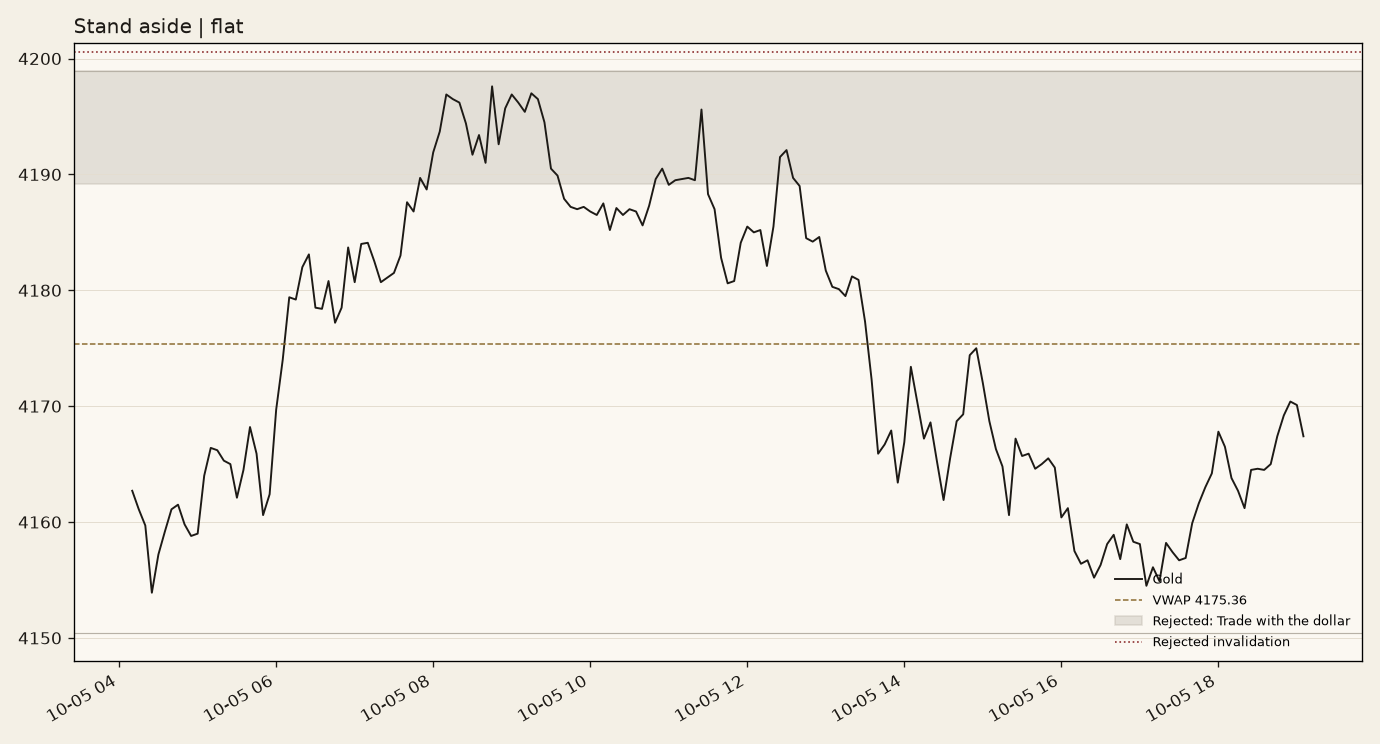
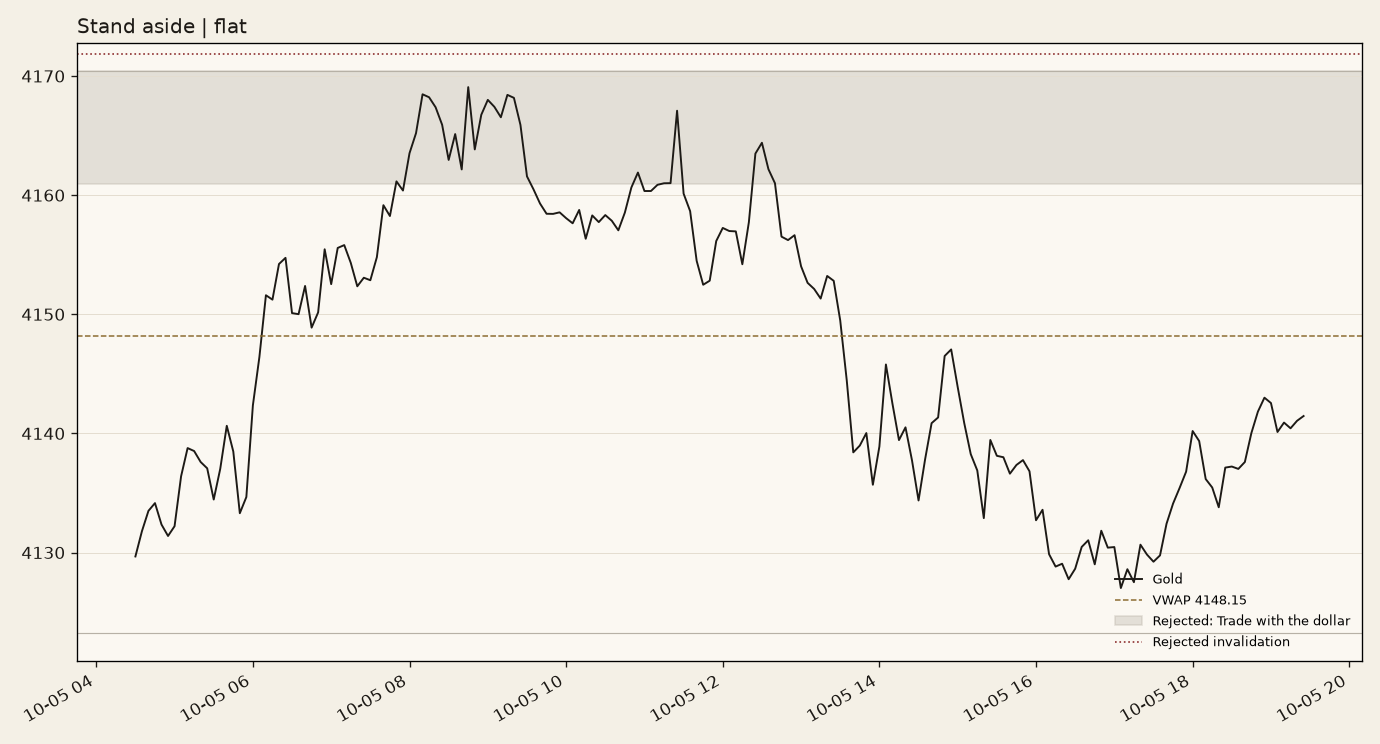
Read the Vantage XAUUSD TradingView chart for each gold plan.

diff --git a/docs/index.html b/docs/index.html
@@ -19,25 +19,44 @@
 <main>
   <h1>Gold intraday bot</h1>
   <p class="muted">Alerts only. No orders are sent. A phone alert fires when a trade plan opens. This page reloads every 5 minutes.</p>
-  <img src="chart.png?v=1791227957" alt="Gold chart with the current plan levels">
+  
+<div class="tradingview-widget-container">
+  <div id="tv_gold" style="height:460px"></div>
+  <div class="tradingview-widget-copyright"><a href="https://www.tradingview.com/chart/?symbol=VANTAGE%3AXAUUSD" rel="noopener nofollow" target="_blank">VANTAGE:XAUUSD chart</a> by TradingView</div>
+  <script type="text/javascript" src="https://s3.tradingview.com/tv.js"></script>
+  <script type="text/javascript">
+  new TradingView.widget({
+    "autosize": true,
+    "symbol": "VANTAGE:XAUUSD",
+    "interval": "5",
+    "timezone": "Etc/UTC",
+    "theme": "light",
+    "style": "1",
+    "locale": "en",
+    "allow_symbol_change": false,
+    "hide_side_toolbar": false,
+    "container_id": "tv_gold"
+  });
+  </script>
+</div>
+
+  <h2>Plan levels</h2>
+  <img src="chart.png?v=1791228493" alt="Gold chart with the current plan levels">
   <h2>Current alert</h2>
-  <pre>No trade. Gold 4167.40. Stand aside.</pre>
+  <pre>No trade. Gold 4141.46. Stand aside.</pre>
   <h2>Latest brief</h2>
   <pre>GOLD INTRADAY BRIEF
-2026-10-05 19:19 UTC
-Gold: GC=F    Dollar index: DX-Y.NYB    WTI: CL=F
+2026-10-05 19:27 UTC
+Gold: VANTAGE:XAUUSD    Dollar index: DX-Y.NYB    WTI: CL=F
 This plan is rebuilt on every run. The journal changes which approach is trusted. It does not freeze a strategy.
-Prices are COMEX gold futures, not spot XAUUSD. Use the structure and the dollar relationship. Do not copy a futures price onto a spot ticket.
+Gold prices are the VANTAGE:XAUUSD chart on TradingView (https://www.tradingview.com/chart/?symbol=VANTAGE%3AXAUUSD). That is the Vantage XAUUSD gold CFD, so these levels match that chart rather than COMEX futures.
 
-RUNNING PLAN
-Standing aside since 18:11 UTC (plan 03b588d4). It keeps running because the new read is also no trade.
-
-NEW READ (not opened)
-Stand aside  |  FLAT  |  confidence 0.56  |  id f0a55cc5
+PLAN
+Stand aside  |  FLAT  |  confidence 0.54  |  id c5413331
 Standing aside. The headline shock is larger than the lead of the best trade.
-Fresh headline shock is in the tape. Trade with the dollar leads standing aside by only 0.04, which is not enough to take a trade while that headline is live. No position. Run a new brief when the price has absorbed the headline, or when the dollar move fades.
+Fresh headline shock is in the tape. Trade with the dollar leads standing aside by only 0.05, which is not enough to take a trade while that headline is live. No position. Run a new brief when the price has absorbed the headline, or when the dollar move fades.
 No position. Nothing is risked on this plan.
-The rejected zone was 4189.20 to 4198.90 (Trade with the dollar), invalidation 4200.60, target 4175.36. It is not an order.
+The rejected zone was 4160.96 to 4170.40 (Trade with the dollar), invalidation 4171.87, target 4148.15. It is not an order.
 
 WHAT WOULD CHANGE IT
 - This plan is graded after 120 minutes, or sooner if price hits the invalidation or the target.
@@ -47,37 +66,38 @@ WHAT WOULD CHANGE IT
 - A headline that flips the dollar or oil story means you run a new brief before entering.
 
 CHART
-Gold 4167.40 in New York (17:00-21:00 UTC). 5-minute structure is sideways. 1-hour structure is sideways.
-UTC-day range 4150.40 to 4198.90. Price is 35% of the way up that range, below VWAP 4175.36. ATR 3.09. Short-range volatility over longer-range volatility is 0.95.
+Gold 4141.46 in New York (17:00-21:00 UTC). 5-minute structure is up. 1-hour structure is sideways.
+UTC-day range 4123.22 to 4170.40. Price is 39% of the way up that range, below VWAP 4148.15. ATR 2.67. Short-range volatility over longer-range volatility is 0.80.
 
 DOLLAR
-DXY 102.18 (+0.27% this UTC day, up). Correlation of recent 5-minute returns with gold is -0.60. Gold is responding the usual way to a firmer dollar.
+DXY 102.17 (+0.26% this UTC day, up). Correlation of recent 5-minute returns with gold is -0.60. Gold is responding the usual way to a firmer dollar.
 
 OIL
-WTI 89.08 (-1.93% this UTC day, down). Correlation of recent 5-minute returns with gold is -0.23. Falling oil is not automatically a gold short. It matters when gold is actually following it.
+WTI 89.03 (-1.98% this UTC day, down). Correlation of recent 5-minute returns with gold is -0.21. Falling oil is not automatically a gold short. It matters when gold is actually following it.
 
 HEADLINES
-Dollar-headline score +1.00 (wording supports a stronger dollar, usually a headwind for gold). Oil-headline score -0.20 (no clear oil impulse in the wording). Fresh shock wording: yes.
+Dollar-headline score +1.00 (wording supports a stronger dollar, usually a headwind for gold). Oil-headline score +0.12 (no clear oil impulse in the wording). Fresh shock wording: yes.
 Dollar headlines:
 - Nasdaq hits record as dollar and Treasury yields climb, oil prices ease - The Spokesman-Review
-- U.S. Treasury Yields Jump Most in 32 Years - 조선일보
+- U.S. Treasury Yields Jump Most in 32 Years - chosun.com
 - Nasdaq Poised to Hit New High as Treasury Yields Climb - WSJ
 Oil headlines:
 - Iraq seeks to buy crude oil tankers to handle shipments beyond Strait of Hormuz: INA - S&amp;P Global
-- Treasury Yields Dip As Oil Slips And Central Banks Stay Patient - Finimize
-- US oil inventories rise but fuel tightness and OPEC+ discipline keep prices supported. - Pluang
+- UKMTO reports fresh attacks in Red Sea, Strait of Hormuz - Quantum Commodity Intelligence
+- Treasury Yields Dip As Oil Slips And Central Banks Stay Patient - finimize.com
 
 WHY THIS APPROACH
 Adjusted score = how the setup looks now, times the journal. A trade needs at least 0.50. Journal half-life is 5 days, so a lesson from a month ago barely counts.
-  Trade with the dollar            0.60 x 1.00 = 0.60  short
-&gt; Stand aside                      0.56 x 1.00 = 0.56  flat
+  Trade with the dollar            0.58 x 1.00 = 0.58  short
+&gt; Stand aside                      0.76 x 0.71 = 0.54  flat
   Trade the oil shock              0.12 x 1.00 = 0.12  flat
-  Trade with the intraday trend    0.10 x 1.00 = 0.10  flat
+  Trade with the intraday trend    0.10 x 1.00 = 0.10  long
   Fade the session range           0.10 x 1.00 = 0.10  flat
+0 wins, 1 losses, 0 scratches on similar days (effective weight 0.8). Trust multiplier 0.71.
 No similar graded sessions yet. This choice is provisional.
 
 GRADED THIS RUN
-Nothing finished its stop, target, or time window on this run.
+03b588d4 stand aside -&gt; loss (-1.00R)
 
 The next run reads the chart, the dollar, and oil again from scratch. Only the graded results carry forward, and they decay.
 
@@ -87,7 +107,7 @@ US CALENDAR
 Refreshed 2026-10-05 18:44 UTC. Refreshes hourly.
 No high or medium impact USD releases in the next 24 hours.</pre>
   <h2>Recent runs</h2>
-  <pre>2026-10-05 19:19 UTC  gold 4167.40 | holding flat stand_aside 03b588d4 | new read flat stand_aside not opened
+  <pre>2026-10-05 19:27 UTC  gold 4141.46 | graded: 03b588d4 stand aside -&gt; loss (-1.00R) | opened stand aside c5413331
 2026-10-05 19:04 UTC  auto: gold 4168.90 | holding flat stand_aside 03b588d4 | new read flat stand_aside not opened | broker: Bot exposure: none
 2026-10-05 18:57 UTC  auto: gold 4167.00 | holding flat stand_aside 03b588d4 | new read flat stand_aside not opened | broker: Bot exposure: none
 2026-10-05 18:53 UTC  manual: gold 4165.10 | holding flat stand_aside 03b588d4 | new read flat stand_aside not opened | broker: Bot exposure: none

diff --git a/tbot/tradingview_feed.py b/tbot/tradingview_feed.py
@@ -1,0 +1,108 @@
+"""5-minute bars from a TradingView chart symbol, such as VANTAGE:XAUUSD.
+
+The public chart session is enough for recent intraday bars. No TradingView login is used.
+"""
+
+from __future__ import annotations
+
+import json
+import random
+import string
+from datetime import datetime, timezone
+
+import pandas as pd
+
+from tbot.market import MarketDataError
+
+SOCKET = "wss://data.tradingview.com/socket.io/websocket"
+ORIGIN = "https://data.tradingview.com"
+
+
+def fetch_chart(symbol: str, resolution: str = "5", bars: int = 1200) -> pd.DataFrame:
+    """Return ts, open, high, low, close, volume for a TradingView symbol."""
+    try:
+        from websocket import create_connection
+    except ImportError as exc:
+        raise MarketDataError("websocket-client is not installed. Run: pip install -r requirements.txt") from exc
+
+    ws = create_connection(SOCKET, header={"Origin": ORIGIN}, timeout=20)
+    try:
+        session = "cs_" + "".join(random.choice(string.ascii_lowercase) for _ in range(12))
+        _send(ws, "set_auth_token", ["unauthorized_user_token"])
+        _send(ws, "chart_create_session", [session, ""])
+        payload = "=" + json.dumps({"symbol": symbol, "adjustment": "splits"}, separators=(",", ":"))
+        _send(ws, "resolve_symbol", [session, "symbol_1", payload])
+        _send(ws, "create_series", [session, "s1", "s1", "symbol_1", resolution, bars])
+        for _ in range(50):
+            raw = ws.recv()
+            if _heartbeat(raw):
+                ws.send(raw)
+                continue
+            for message in _messages(raw):
+                method = message.get("m")
+                if method in ("symbol_error", "series_error"):
+                    raise MarketDataError(f"TradingView chart {symbol} did not load ({method})")
+                if method not in ("timescale_update", "du"):
+                    continue
+                series = message["p"][1].get("s1", {}).get("s") or []
+                if len(series) >= 30:
+                    return _frame(series)
+    finally:
+        ws.close()
+    raise MarketDataError(f"TradingView chart {symbol} returned no bars")
+
+
+def _send(ws, method: str, params: list) -> None:
+    body = json.dumps({"m": method, "p": params}, separators=(",", ":"))
+    ws.send(f"~m~{len(body)}~m~{body}")
+
+
+def _heartbeat(raw: str) -> bool:
+    return "~h~" in raw and '"m":' not in raw
+
+
+def _messages(raw: str) -> list[dict]:
+    found: list[dict] = []
+    index = 0
+    while True:
+        marker = raw.find("~m~", index)
+        if marker < 0:
+            break
+        length_end = raw.find("~m~", marker + 3)
+        if length_end < 0:
+            break
+        try:
+            length = int(raw[marker + 3 : length_end])
+        except ValueError:
+            break
+        start = length_end + 3
+        packet = raw[start : start + length]
+        index = start + length
+        if packet.startswith("{"):
+            try:
+                found.append(json.loads(packet))
+            except json.JSONDecodeError:
+                continue
+    return found
+
+
+def _frame(series: list[dict]) -> pd.DataFrame:
+    rows = []
+    for item in series:
+        values = item.get("v") or []
+        if len(values) < 5:
+            continue
+        rows.append(
+            {
+                "ts": datetime.fromtimestamp(values[0], tz=timezone.utc),
+                "open": values[1],
+                "high": values[2],
+                "low": values[3],
+                "close": values[4],
+                "volume": values[5] if len(values) > 5 else 0,
+            }
+        )
+    frame = pd.DataFrame(rows)
+    if len(frame) < 30:
+        raise MarketDataError("TradingView chart returned too few bars")
+    return frame

diff --git a/tbot/market.py b/tbot/market.py
@@ -20,12 +20,7 @@ class MarketDataError(RuntimeError):
 
 def load_market(settings: Settings) -> tuple[str, pd.DataFrame, str | None, pd.DataFrame | None, str | None, pd.DataFrame | None, list[str]]:
     warnings: list[str] = []
-    gold_symbol, gold = _first_available(settings.gold_symbol, GOLD_FALLBACKS, settings)
-    if gold_symbol is None or gold is None:
-        raise MarketDataError(
-            "Gold prices did not load. Check the connection, then try again. "
-            "python main.py demo still runs without a feed."
-        )
+    gold_symbol, gold = _load_gold(settings, warnings)
     dxy_symbol, dxy = _first_available(settings.dxy_symbol, DXY_FALLBACKS, settings)
     if dxy is None:
         warnings.append("Dollar index price did not load. The brief will use dollar headlines only.")
@@ -68,12 +63,36 @@ def fetch_bars(symbol: str, interval: str, period: str) -> pd.DataFrame:
 
 
 def price_note_for(symbol: str) -> str:
+    if ":" in symbol:
+        link = "https://www.tradingview.com/chart/?symbol=" + symbol.replace(":", "%3A")
+        return (
+            f"Gold prices are the {symbol} chart on TradingView ({link}). "
+            "That is the Vantage XAUUSD gold CFD, so these levels match that chart rather than COMEX futures."
+        )
     if symbol.upper() in {"GC=F", "MGC=F"}:
         return (
             "Prices are COMEX gold futures, not spot XAUUSD. "
             "Use the structure and the dollar relationship. Do not copy a futures price onto a spot ticket."
         )
     return ""
+
+
+def _load_gold(settings: Settings, warnings: list[str]) -> tuple[str, pd.DataFrame]:
+    symbol = settings.gold_symbol
+    if ":" in symbol:
+        try:
+            from tbot.tradingview_feed import fetch_chart
+
+            return symbol, fetch_chart(symbol, "5", 1200)
+        except MarketDataError as exc:
+            warnings.append(f"TradingView chart {symbol} did not load ({exc}). Using the fallback gold price.")
+    gold_symbol, gold = _first_available(symbol if ":" not in symbol else "XAUUSD=X", GOLD_FALLBACKS, settings)
+    if gold_symbol is None or gold is None:
+        raise MarketDataError(
+            "Gold prices did not load. Check the connection, then try again. "
+            "python main.py demo still runs without a feed."
+        )
+    return gold_symbol, gold
 
 
 def _first_available(

diff --git a/tbot/site.py b/tbot/site.py
@@ -17,6 +17,7 @@ def build_site(
     *,
     lead: str = "Updated every 15 minutes while the gold market is open. This page reloads every 5 minutes.",
     section_title: str = "Status",
+    tv_symbol: str | None = None,
 ) -> Path:
     site_dir.mkdir(parents=True, exist_ok=True)
     image = ""
@@ -24,6 +25,7 @@ def build_site(
         shutil.copyfile(chart, site_dir / "chart.png")
         stamp = int(datetime.now(timezone.utc).timestamp())
         image = f'<img src="chart.png?v={stamp}" alt="Gold chart with the current plan levels">'
+    widget = _tradingview_widget(tv_symbol) if tv_symbol else ""
     account = "\n".join(account_lines)
     recent = "\n".join(reversed(log_tail))
     page = f"""<!DOCTYPE html>
@@ -47,6 +49,8 @@ def build_site(
 <main>
   <h1>Gold intraday bot</h1>
   <p class="muted">{html.escape(lead)}</p>
+  {widget}
+  <h2>Plan levels</h2>
   {image}
   <h2>{html.escape(section_title)}</h2>
   <pre>{html.escape(account)}</pre>
@@ -62,3 +66,30 @@ def build_site(
     (site_dir / "index.html").write_text(page, encoding="utf-8")
     (site_dir / ".nojekyll").write_text("", encoding="utf-8")
     return site_dir / "index.html"
+
+
+def _tradingview_widget(symbol: str) -> str:
+    link = "https://www.tradingview.com/chart/?symbol=" + symbol.replace(":", "%3A")
+    container = "tv_gold"
+    script = """
+<div class="tradingview-widget-container">
+  <div id="{container}" style="height:460px"></div>
+  <div class="tradingview-widget-copyright"><a href="{link}" rel="noopener nofollow" target="_blank">{symbol} chart</a> by TradingView</div>
+  <script type="text/javascript" src="https://s3.tradingview.com/tv.js"></script>
+  <script type="text/javascript">
+  new TradingView.widget({{
+    "autosize": true,
+    "symbol": "{symbol}",
+    "interval": "5",
+    "timezone": "Etc/UTC",
+    "theme": "light",
+    "style": "1",
+    "locale": "en",
+    "allow_symbol_change": false,
+    "hide_side_toolbar": false,
+    "container_id": "{container}"
+  }});
+  </script>
+</div>
+""".format(container=container, link=html.escape(link), symbol=html.escape(symbol))
+    return script

diff --git a/tests/test_tradingview_feed.py b/tests/test_tradingview_feed.py
@@ -1,0 +1,34 @@
+"""TradingView chart packets become gold bars."""
+
+from __future__ import annotations
+
+import json
+import unittest
+
+from tbot.tradingview_feed import _frame, _messages
+
+
+class TradingViewFeedTests(unittest.TestCase):
+    def test_packets_split_into_messages(self):
+        body = json.dumps({"m": "timescale_update", "p": ["cs", {"s1": {"s": []}}]})
+        raw = f"~m~{len(body)}~m~{body}"
+        messages = _messages(raw)
+        self.assertEqual(messages[0]["m"], "timescale_update")
+
+    def test_bars_become_ohlc(self):
+        series = [
+            {"i": 0, "v": [1790901900.0, 4159.45, 4161.78, 4157.66, 4160.03, 100.0]},
+            {"i": 1, "v": [1790902200.0, 4160.03, 4162.00, 4159.00, 4161.50, 80.0]},
+        ]
+        # pad to the minimum the reader accepts by repeating the shape in the test via direct frame after bypass
+        series = series + [
+            {"i": i, "v": [1790901900.0 + i * 300, 4160.0, 4161.0, 4159.0, 4160.5, 10.0]} for i in range(2, 32)
+        ]
+        frame = _frame(series)
+        self.assertEqual(len(frame), 32)
+        self.assertAlmostEqual(frame.iloc[0]["close"], 4160.03)
+        self.assertEqual(str(frame.iloc[0]["ts"].tz), "UTC")
+
+
+if __name__ == "__main__":
+    unittest.main()

diff --git a/tbot/runner.py b/tbot/runner.py
@@ -221,6 +221,7 @@ def _run_connected(
         [*_log_tail(settings, 19), f"{stamp}  {summary}"],
         lead=lead,
         section_title=section,
+        tv_symbol=settings.gold_symbol if ":" in settings.gold_symbol else None,
     )
     return RunResult(0, summary, text=text, brief=brief)
 
